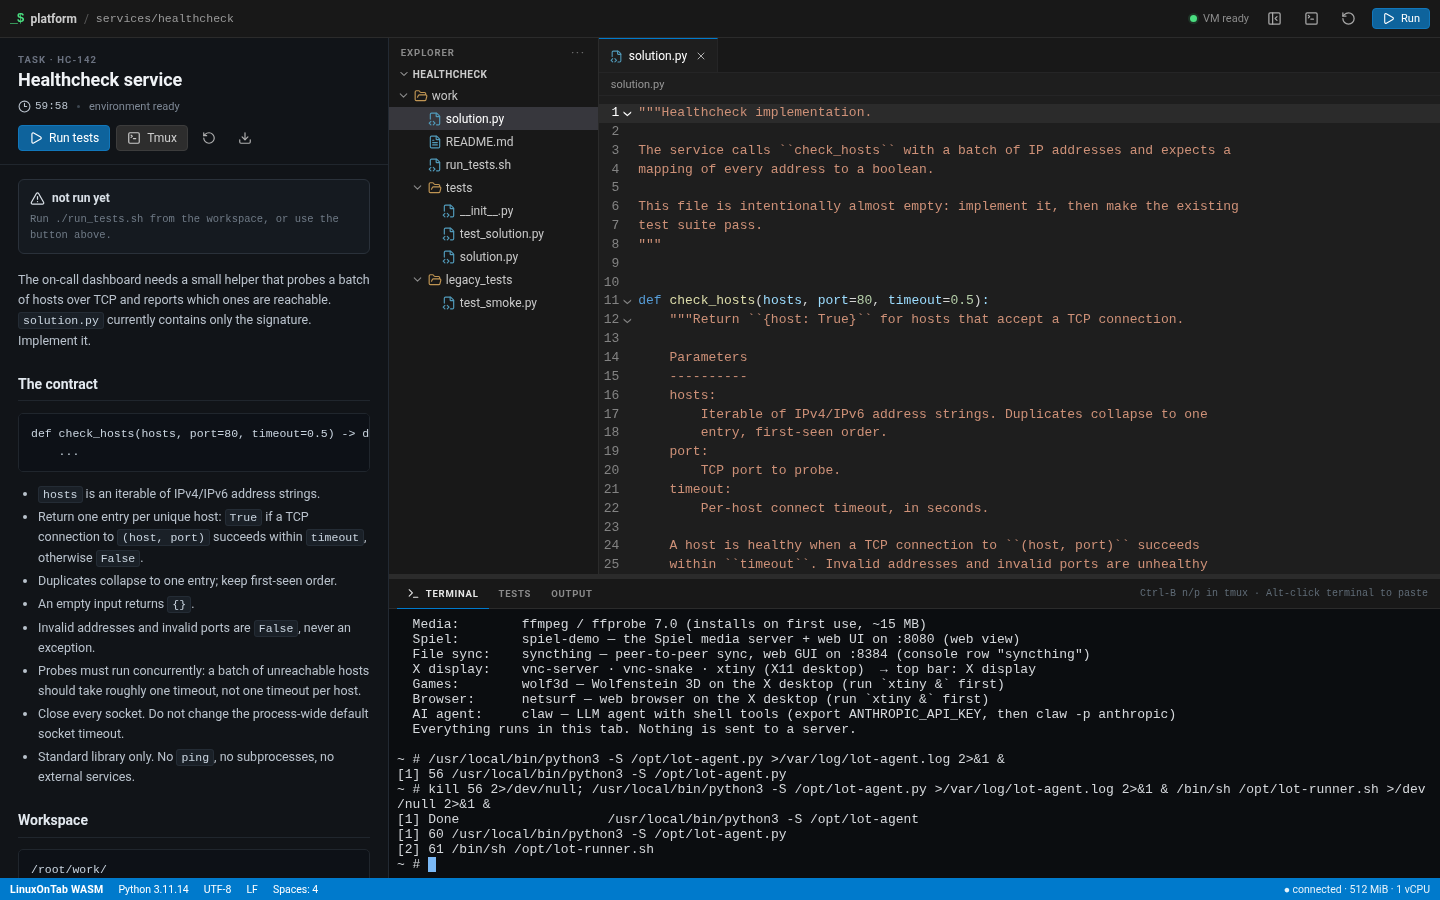
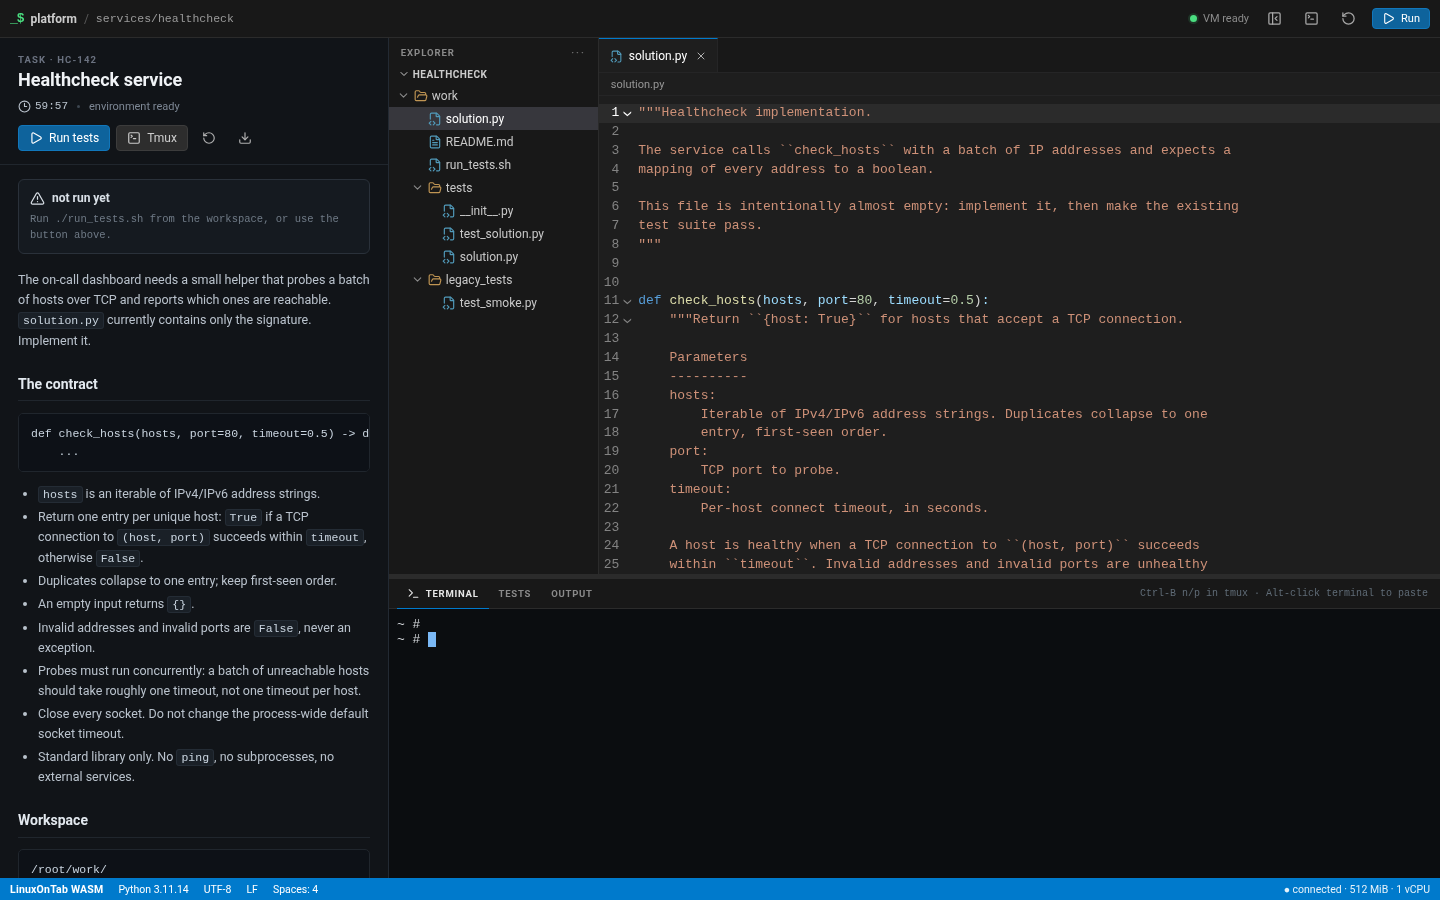
fix: FIFO command runner, static overlay boot, clean terminal

diff --git a/src/lib/vm.ts b/src/lib/vm.ts
@@ -101,6 +101,16 @@ export class GuestAgent {
     return r;
   }
 
+  clearTerminal(): void {
+    try {
+      const win = this.frame.contentWindow as any;
+      win.__term?.clear?.();
+      win.guestSend?.("");
+    } catch {
+      /* cosmetic */
+    }
+  }
+
   async killPidFile(path: string): Promise<void> {
     const r = await this.call<{ ok: boolean; error?: string }>({ op: "kill", path }, 5_000);
     if (!r.ok) throw new Error(r.error || `kill failed: ${path}`);
@@ -201,128 +211,8 @@ export async function waitForAgent(
 /* Overlay seeding                                                     */
 /* ------------------------------------------------------------------ */
 
-const IMG_DB = "lot-images";
-const IMG_STORE = "images";
-
-function openImageDb(): Promise<IDBDatabase> {
-  return new Promise((resolve, reject) => {
-    const req = indexedDB.open(IMG_DB, 1);
-    req.onupgradeneeded = () => {
-      const db = req.result;
-      if (!db.objectStoreNames.contains(IMG_STORE)) {
-        db.createObjectStore(IMG_STORE, { keyPath: "name" });
-      }
-    };
-    req.onsuccess = () => resolve(req.result);
-    req.onerror = () => reject(req.error);
-  });
-}
-
-function idbGet<T>(db: IDBDatabase, key: string): Promise<T | undefined> {
-  return new Promise((resolve, reject) => {
-    const tx = db.transaction(IMG_STORE, "readonly");
-    const req = tx.objectStore(IMG_STORE).get(key);
-    req.onsuccess = () => resolve(req.result as T | undefined);
-    req.onerror = () => reject(req.error);
-  });
-}
-
-function idbPut(db: IDBDatabase, value: unknown): Promise<void> {
-  return new Promise((resolve, reject) => {
-    const tx = db.transaction(IMG_STORE, "readwrite");
-    tx.objectStore(IMG_STORE).put(value);
-    tx.oncomplete = () => resolve();
-    tx.onerror = () => reject(tx.error);
-  });
-}
-
-export type OverlayMeta = {
-  name: string;
-  baseSha: string;
-  extents: [number, number][];
-  created: number;
-  dataSize: number;
-};
-
 export const OVERLAY_NAME = "swe-base";
 export const OVERLAY_META_URL = "/overlays/swe-base.json";
-export const OVERLAY_DATA_URL = "/overlays/swe-base.data.gz";
-
-async function fetchWithProgress(
-  url: string,
-  onProgress?: (received: number, total: number | null) => void,
-): Promise<ArrayBuffer> {
-  const res = await fetch(url, { cache: "no-store" });
-  if (!res.ok) throw new Error(`${url}: HTTP ${res.status}`);
-  const total = Number(res.headers.get("content-length")) || null;
-  if (!res.body) return res.arrayBuffer();
-
-  const reader = res.body.getReader();
-  const chunks: Uint8Array[] = [];
-  let received = 0;
-  for (;;) {
-    const { value, done } = await reader.read();
-    if (done) break;
-    if (value) {
-      chunks.push(value);
-      received += value.byteLength;
-      onProgress?.(received, total);
-    }
-  }
-  const out = new Uint8Array(received);
-  let off = 0;
-  for (const c of chunks) {
-    out.set(c, off);
-    off += c.byteLength;
-  }
-  return out.buffer;
-}
-
-async function gunzip(buffer: ArrayBuffer): Promise<ArrayBuffer> {
-  const stream = new Blob([buffer]).stream().pipeThrough(new DecompressionStream("gzip"));
-  return new Response(stream).arrayBuffer();
-}
-
-/**
- * Put the committed rootfs overlay into the iframe's IndexedDB before the VM
- * boots.  The VM's own `?image=@swe-base` path reads exactly this record, so
- * we don't need a relay or an API server.
- */
-export async function ensureOverlay(
-  onProgress?: (phase: string, received: number, total: number | null) => void,
-): Promise<void> {
-  const metaRes = await fetch(OVERLAY_META_URL, { cache: "no-store" });
-  const metaType = metaRes.headers.get("content-type") || "";
-  if (!metaRes.ok || !metaType.includes("json")) {
-    throw new Error(
-      "Environment image is missing. Build it with `npm run build:overlay` (see README).",
-    );
-  }
-  const meta = (await metaRes.json()) as OverlayMeta;
-  const db = await openImageDb();
-  try {
-    const existing = await idbGet<{ baseSha: string }>(db, OVERLAY_NAME);
-    if (existing?.baseSha === meta.baseSha) {
-      onProgress?.("cached", 1, 1);
-      return;
-    }
-    const gz = await fetchWithProgress(OVERLAY_DATA_URL, (received, total) =>
-      onProgress?.("download", received, total),
-    );
-    onProgress?.("unpack", 0, null);
-    const raw = await gunzip(gz);
-    await idbPut(db, {
-      name: OVERLAY_NAME,
-      baseSha: meta.baseSha,
-      extents: meta.extents,
-      data: raw,
-      created: meta.created,
-    });
-    onProgress?.("ready", 1, 1);
-  } finally {
-    db.close();
-  }
-}
 
 export function buildVmUrl(): string {
   const cmd =

diff --git a/src/App.tsx b/src/App.tsx
@@ -79,6 +79,7 @@ export default function App() {
       await nextAgent.restartAgentAndRunner(agentSource, runnerSource);
       onPhase("provisioning", "Writing the workspace…");
       await provisionEnvironment(nextAgent, { keepSolution: keep });
+      nextAgent.clearTerminal();
       const clean: Record<string, string> = { ...INITIAL_FILES, "solution.py": keep };
       filesRef.current = clean;
       setFiles(clean);

diff --git a/docs/architecture.md b/docs/architecture.md
@@ -52,10 +52,11 @@ of ext4 blocks dirty. `scripts/build-overlay.mjs`:
 5. `lotPush` uploads the meta + raw dirty extents to the local build server;
 6. gzips the extents to `public/overlays/swe-base.data.gz`.
 
-At runtime `src/lib/vm.ts` fetches the meta + gz, decompresses, and puts the
-record into IndexedDB `lot-images` **before** creating the iframe. The VM boots
-with `?image=@swe-base` and applies the overlay. The record is cached per
-browser, so subsequent loads only fetch the small base assets.
+At runtime the iframe’s patched `lotPull` fetches `/overlays/swe-base.json` +
+`.data.gz` from our own origin, inflates the gzip when the host did not already
+do it (`Content-Encoding: gzip` vs a raw `.gz`), and applies the extents before
+booting `?image=@swe-base`. The VM never writes the 150 MB record to
+IndexedDB; the HTTP cache (`immutable` in nginx) is the cache.
 
 The overlay is bound to the `sha256` in
 `public/vm/linux-dist/rootfs-lean.manifest.json`. Do not replace the base
@@ -81,6 +82,13 @@ The agent is started with `/usr/local/bin/python3 -S` so the challenge’s broke
 `sitecustomize.py` cannot take the editor bridge down. The **candidate’s**
 commands still go through the broken CI runner and hit the planted bugs.
 
+The wasm32 CPython has no `os.fork`/`subprocess`. `exec`/`spawn` therefore
+write one line to `/tmp/lot-cmd`; `vm/lot-runner.sh` (a shell loop started at
+boot) runs it and leaves `/tmp/lot-out`, `/tmp/lot-exit`, `/tmp/lot-done`; the
+agent returns those. On boot the page also replaces the older agent baked into
+the golden overlay with the current one and starts the runner, so the golden
+image can stay pinned.
+
 ## Provisioning
 
 `src/lib/provision.ts` writes the workspace and the five breakages after the
@@ -92,8 +100,8 @@ agent answers:
 4. `sitecustomize.py` → non-blocking `socket.connect`;
 5. `/opt/rogue.py` → listener on `127.0.0.1:18080`.
 
-The reset button reboots the iframe, re-seeds the overlay from IndexedDB, and
-re-runs provisioning with the candidate’s current `solution.py` preserved.
+The reset button reboots the iframe (the overlay comes from the HTTP cache),
+and re-runs provisioning with the candidate’s current `solution.py` preserved.
 
 ## Security and limits
 

diff --git a/README.md b/README.md
@@ -1,5 +1,9 @@
 # Two Files — browser debugging interview
 
+> **Demo/interviewer repository.** The candidate-facing page only renders
+> `challenge/senior/README.md`; `docs/interviewer.md` is the answer key. Keep
+> this repository private for real interviews.
+
 ![Interview UI](docs/screenshot.png)
 
 A self-contained, local-first interview environment:
@@ -59,16 +63,19 @@ LinuxOnTab WASM Linux  ──  /root/work/{solution.py, tests/, run_tests.sh}
 ```
 
 - The overlay is a committed ext4 dirty-block image (`public/overlays/`). The
-  app seeds it into IndexedDB under `lot-images` and boots
-  `?image=@swe-base`.
+  iframe's patched `lotPull` fetches the meta + `.data.gz` from our own
+  `/overlays/`, inflates it, and boots `?image=@swe-base`. The browser HTTP
+  cache is the cache; there is no 150 MB IndexedDB write.
 - The iframe is same-origin and inherits cross-origin isolation from the top
   page. Both the app and the VM are served with COOP/COEP.
 - The guest agent listens on port 45999. The page connects to it through the
   in-page slirp, so editor saves and “Run tests” do not have to type into the
-  terminal.
+  terminal. The wasm32 Python has no `fork`/`subprocess`, so commands go
+  through a FIFO to `vm/lot-runner.sh`; the agent waits for the runner’s result
+  files.
 - The five breakages are applied by `src/lib/provision.ts` after boot: a broken
   CI interpreter, a runner pointed at the old smoke tests, a stale test-local
-  `solution.py` symlink, a `sitecustomize` socket hook, and a rogue listener on
+  `solution.py` copy, a `sitecustomize` socket hook, and a rogue listener on
   the “down” port.
 
 More detail: [`docs/architecture.md`](docs/architecture.md).

diff --git a/docs/interviewer.md b/docs/interviewer.md
@@ -153,6 +153,10 @@ The test suite checks IPv4/IPv6, empty input, duplicate collapse, order,
 invalid addresses/ports, per-host timeout, concurrency, socket cleanup,
 global-timeout hygiene, and thread safety.
 
+Note: the wasm32 guest kernel has no IPv6 loopback (`::1`), so the three IPv6
+tests self-skip there (`IPv6 loopback unavailable`). Run the final hidden
+grader on a normal Linux host to exercise them.
+
 ## Grading
 
 Suggested weights:
